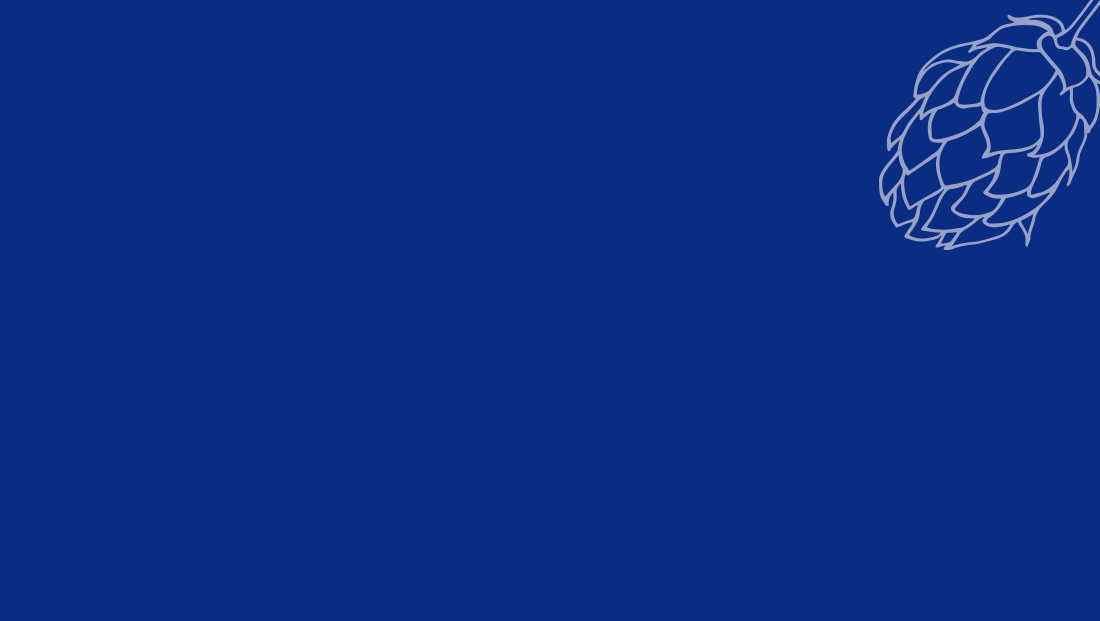
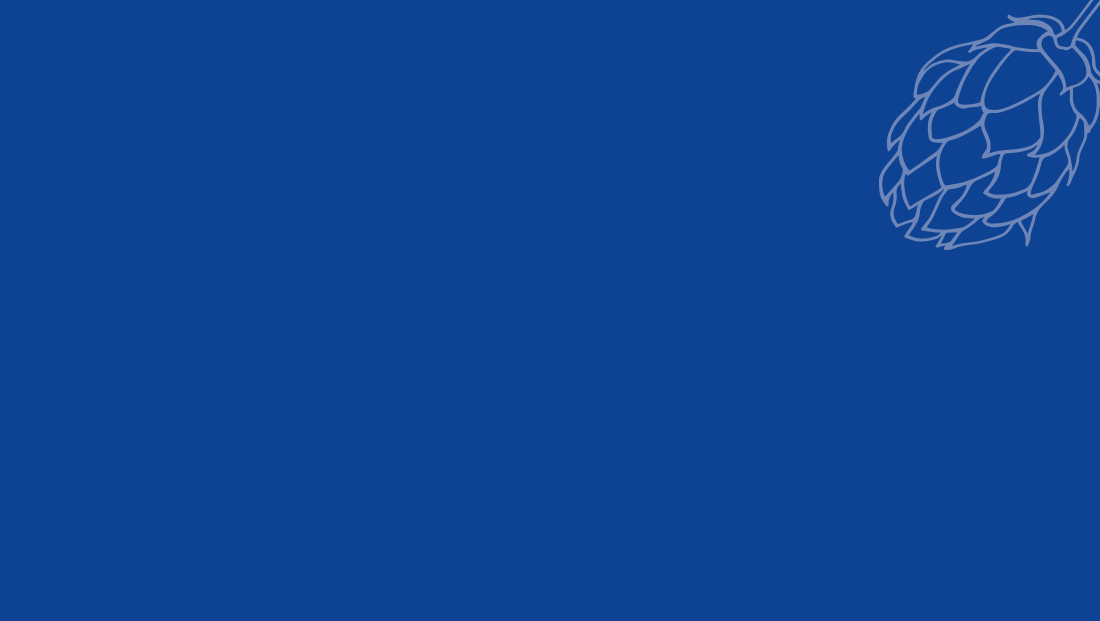
fix visual colors

Changed region(s): [[0.8036, 0.0, 1.0, 0.3977], [0.9891, 0.0, 1.0, 0.0306]]

diff --git a/dist/app.css b/dist/app.css
@@ -303,7 +303,7 @@ footer {
   display: none;
   align-items: center;
   justify-content: center;
-  background-color: #0a2d82;
+  background-color: #0e4393;
   background-position: 50% 50%;
   background-repeat: no-repeat;
   background-size: cover; }
@@ -577,4 +577,4 @@ select {
   padding: 2rem;
   background: #fff; }
 
[2 lines of base64/hex data omitted]

diff --git a/styles/_countdown.scss b/styles/_countdown.scss
@@ -10,8 +10,7 @@
   align-items: center;
   justify-content: center;
 
-  //background-color: $brand-color;
-  background-color: #0a2d82;
+  background-color: $brand-color;
   background-position: 50% 50%;
   background-repeat: no-repeat;
   background-size: cover;
